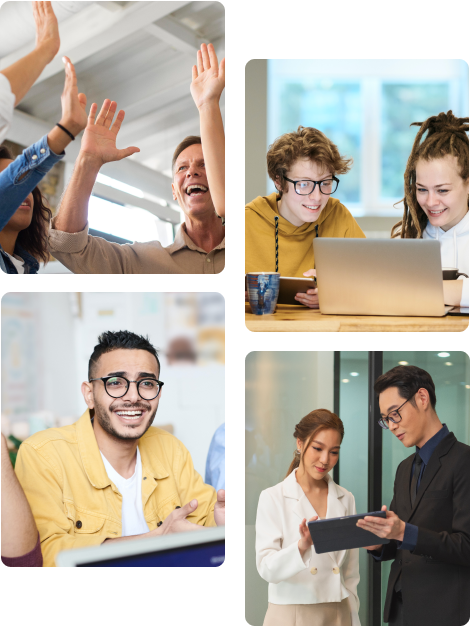
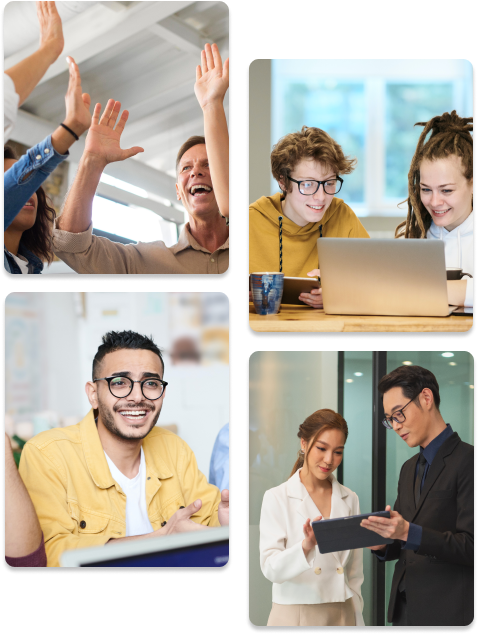
[Style] - Many background images changed into abstract white/black lines - Sections sizing and paddings changed

diff --git a/app/about/about-sections/SectionOne.tsx b/app/about/about-sections/SectionOne.tsx
@@ -3,22 +3,27 @@ import Image from 'next/image'
 
 export default function SectionOne() {
   return (
-    <div className="flex flex-col p-default-padding md:p-medium-padding items-center gap-[100px] bg-white">
-      <h1 className='text-4xl font-extrabold'>About Us</h1>
+    <div className="flex flex-col p-default-padding md:p-medium-padding items-center gap-[100px] bg-white bg-white-abstract-pattern-5 bg-cover bg-center bg-no-repeat">
+      <div className='flex w-full items-center'>
+        <hr className='border border-gray-3 w-full'/>
+        <h1 className='text-2xl font-semibold w-[900px] text-center'>About Us</h1>
+        <hr className='border border-gray-3 w-full'/>
+        <hr />
+      </div>
       <div className='flex items-center justify-center gap-[100px]'>
         <Image src={promoImage} alt="People Enjoying their work"/>
         <div className="text-center flex flex-col gap-20">
           <div>
-            <h2 className="text-4xl font-extrabold">Our Mission</h2>
-            <p className="w-[500px] text-center">&quot;To empower startups and medium-sized enterprises with innovative strategies and advanced technological solutions that drive their growth and streamline their operations.&quot;</p>
+            <h2 className="text-4xl font-bold">Our Mission</h2>
+            <p className="w-[600px] text-md text-center">&quot;To empower startups and medium-sized enterprises with innovative strategies and advanced technological solutions that drive their growth and streamline their operations.&quot;</p>
           </div>
           <div>
-            <h2 className="text-4xl font-extrabold">Our Vision</h2>
-            <p className="w-[500px] text-center">&quot;To empower startups and medium-sized enterprises with innovative strategies and advanced technological solutions that drive their growth and streamline their operations.&quot;</p>
+            <h2 className="text-4xl font-bold">Our Vision</h2>
+            <p className="w-[600px] text-md text-center">&quot;To be the go-to consulting partner for startups and medium enterprises, recognized for our commitment to delivering transformative results and fostering business excellence.&quot;</p>
           </div>
         </div>
       </div>
-      <div className="flex items-center gap-20">
+      <div className="flex items-center gap-20 border-t-2 border-gray-3 px-[100px]">
         <p className="text-3xl font-bold w-[450px]">We are here to help our clients reach their goals.</p>
         <div className="w-[1px] h-[300px] bg-gray-3"></div>
         <div className="w-[500px] flex flex-col gap-5">

diff --git a/app/about/about-sections/SectionThree.tsx b/app/about/about-sections/SectionThree.tsx
@@ -1,26 +1,32 @@
-
+import maykel from '@/app/assets/images/Maykel.jpg'
+import andrew from '@/app/assets/images/Andrew.jpg'
+import georgio from '@/app/assets/images/Giorgio.jpg'
+import Image, { StaticImageData } from 'next/image'
 
 const members = [
   {
     name: "Maykel Soeharto",
-    position: "Founder"
+    position: "Founder",
+    profilePic: maykel
   },
   {
-    name: "Maykel Soeharto",
-    position: "Founder"
+    name: "Andrew",
+    position: "Founder",
+    profilePic: andrew
   },
   {
-    name: "Maykel Soeharto",
-    position: "Founder"
+    name: "Georgio",
+    position: "Founder",
+    profilePic: georgio
   }
 ]
 
-function MemberCard({name, position} : {name: string, position: string}) {
+function MemberCard({name, position, profilePic} : {name: string, position: string, profilePic: StaticImageData}) {
   return (
-    <div className="flex flex-col gap-2">
-      <div className="w-[300px] h-[400px] bg-gray-3 rounded-2xl"></div>
+    <div className="flex flex-col gap-10">
+      <Image src={profilePic} alt={name} className='w-[300px] h-[400px] rounded-2xl object-cover shadow-xl shadow-gray-2'/>
       <div>
-        <h3 className="font-semibold">{name}</h3>
+        <h3 className="font-semibold text-lg">{name}</h3>
         <p className="font-extralight">{position}</p>
       </div>
     </div>
@@ -34,10 +40,10 @@ export default function SectionThree() {
         <h2 className="font-bold text-3xl">Meet our team</h2>
         <p className="max-w-[600px]">We are the driving force behind innovative solutions and strategic growth. Our consultants are here to empower your business and deliver exceptional results.</p>
       </div>
-      <div className="flex gap-10">
+      <div className="flex gap-20">
         {
           members.map((item, index) => (
-            <MemberCard key={index} name={item.name} position={item.position}/>
+            <MemberCard key={index} name={item.name} position={item.position} profilePic={item.profilePic}/>
           ))
         }
       </div>

diff --git a/app/services/service-sections/SectionThree.tsx b/app/services/service-sections/SectionThree.tsx
@@ -17,7 +17,7 @@ const keypoints = [
 
 function Keypoint({heading, text} : {heading: string, text: string}) {
   return (
-    <div className="px-[20px] py-[40px] w-[420px] flex flex-col items-center justify-start bg-white text-center gap-4 shadow-lg">
+    <div className="px-[20px] py-[40px] w-[420px] flex flex-col items-center justify-start bg-white text-center gap-4 shadow-lg rounded-2xl">
       <h2 className="text-xl font-bold border-b border-beige">{heading}</h2>
       <p>{text}</p>
     </div>
@@ -27,10 +27,10 @@ function Keypoint({heading, text} : {heading: string, text: string}) {
 export default function SectionThree() {
   return (
     <div className="services-img-bg bg-cover bg-center bg-no-repeat lg:p-default-padding md:p-medium-padding flex flex-col items-center justify-center gap-20 lg:py-[150px] md:py-[150px]">
-      <div className="flex items-center justify-center gap-10 backdrop-blur-xl p-4">
-        <h2 className="w-[470px] text-3xl font-bold">Growth Strategy for Medium Enterprises</h2>
+      <div className="flex items-center justify-center gap-10 bg-gray-1/60 backdrop-blur-md py-6 px-10 shadow-lg rounded-2xl">
+        <h2 className="w-[470px] text-3xl font-bold text-white">Growth Strategy for Medium Enterprises</h2>
         <div className="w-[2px] h-[100px] bg-gray-2"></div>
-        <p className="w-[600px]">Our Growth Strategy services are designed to help established medium-sized enterprises identify new opportunities and expand their market presence. We provide the insights and tools needed to navigate market complexities and accelerate growth.</p>
+        <p className="w-[600px] text-white">Our Growth Strategy services are designed to help established medium-sized enterprises identify new opportunities and expand their market presence. We provide the insights and tools needed to navigate market complexities and accelerate growth.</p>
       </div>
       <div className="flex gap-10">
         {

diff --git a/app/about/about-sections/SectionTwo.tsx b/app/about/about-sections/SectionTwo.tsx
@@ -4,11 +4,11 @@ import bannerMockup from '@/app/assets/images/billboard-mockup.png'
 
 export default function SectionTwo() {
   return (
-    <div className=" bg-gradient-to-t from-gray-2/40 to-white flex items-center justify-center lg:p-default-padding md:p-medium-padding gap-20 lg:pb-0 md:pb-0">
+    <div className="flex items-center justify-center lg:p-default-padding md:p-medium-padding gap-20 lg:pb-0 md:pb-0 bg-white-abstract-pattern-3 bg-cover bg-center bg-no-repeat lg:pt-[100px] md:pt-[100px]">
       <Image src={bannerMockup} alt="Origin Banner Mockup" className="lg:w-[600px] md:w-[500px]"/>
       <div className="w-[500px] flex flex-col gap-7 md:text-sm lg:text-md">
         <h2 className="font-bold lg:text-3xl md:text-lg">Experts from each <br></br> field worldwide.</h2>
-        <p>We share common trends and strategies for improving your rental income and making sure you stay in high demand of service. </p>
+        <p className="text-md w-[400px]">We share common trends and strategies for improving your rental income and making sure you stay in high demand of service. </p>
       </div>
     </div>
   )

diff --git a/app/services/service-sections/SectionFour.tsx b/app/services/service-sections/SectionFour.tsx
@@ -18,7 +18,7 @@ const keypoints = [
 
 function Keypoints({heading, text, icon} : {heading: string, text: string, icon: StaticImageData}) {
   return (
-    <div className='flex flex-col gap-4 items-center'>
+    <div className='flex flex-col gap-4 items-center shadow-xl rounded-lg px-2 py-4'>
       <Image src={icon} alt={heading} className='w-[130px]'/>
       <div className='text-center flex flex-col gap-2'>
         <h3 className='text-xl font-semibold'>{heading}</h3>
@@ -44,7 +44,7 @@ export default function SectionFour() {
           }
         </div>
       </div>
-      <Image src={operationalEfficiency} alt="asian businessman presenting analysis cost graph corporate colleagues meeting office" className='md:w-[300px] md:h-[400px] lg:w-[425px] lg:h-[621px] object-cover rounded-3xl shadow-xl'/>
+      <Image src={operationalEfficiency} alt="asian businessman presenting analysis cost graph corporate colleagues meeting office" className='md:w-[300px] md:h-[400px] lg:w-[525px] lg:h-[621px] object-cover rounded-3xl shadow-xl'/>
       
     </div>
   )

diff --git a/app/services/service-sections/SectionFive.tsx b/app/services/service-sections/SectionFive.tsx
@@ -3,7 +3,7 @@ import Image from 'next/image'
 
 export default function SectionFive() {
   return (
-    <div className="digital-transformation-bg flex flex-col items-center justify-center lg:p-default-padding md:p-medium-padding lg:py-[150px] md:py-[150px] text-white gap-20">
+    <div className="digital-transformation-bg flex flex-col items-center justify-center lg:p-default-padding md:p-medium-padding lg:py-[120px] md:py-[120px] text-white gap-20">
       <div className="text-center flex flex-col items-center justify-center gap-4">
         <h2 className="text-3xl font-bold">Digital <span className='text-beige'>Transformation</span></h2>
         <p className="w-[600px]">In the digital age, staying competitive requires embracing technology. Our Digital Transformation services integrate cutting-edge technologies like AI and IoT to revolutionize your operations and create new value propositions.

diff --git a/tailwind.config.ts b/tailwind.config.ts
@@ -13,6 +13,11 @@ const config: Config = {
         "gradient-conic": "conic-gradient(from 180deg at 50% 50%, var(--tw-gradient-stops))",
         "black-pattern-1": "url('./assets/images/black-pattern-1.webp')",
         "black-pattern-2": "url('./assets/images/black-pattern-2.webp')",
+        "white-abstract-pattern-1": "url('./assets/images/flat-illustration-wavy-white-background.jpg')",
+        "white-abstract-pattern-2": "url('./assets/images/white-abstract-background-2.jpg')",
+        "white-abstract-pattern-3": "url('./assets/images/white-abstract-background-3.jpg')",
+        "white-abstract-pattern-5": "url('./assets/images/white-abstract-background-5.webp')",
+        "services-main-bg": "url('./assets/images/businessman-near-building-looking-away.jpg')",
       },
       padding:  {
         "default-padding": "60px 200px",

diff --git a/app/sections/SectionFive.tsx b/app/sections/SectionFive.tsx
@@ -2,9 +2,9 @@ import { ContactForm } from "../global-components/ContactForm"
 
 export default function SectionFive() {
   return (
-    <div className='lg:p-default-padding md:p-medium-padding flex flex-col items-center gap-10 bg-black-pattern-1 bg-no-repeat bg-cover text-white bg-center md:py-[100px] lg:py-[100px]'>
+    <div className='lg:p-default-padding md:p-medium-padding flex flex-col items-center gap-10 bg-white-abstract-pattern-2 bg-no-repeat bg-cover text-black bg-center md:py-[100px] lg:py-[100px]'>
       <div className='text-center'>
-        <h2 className='text-2xl font-extrabold'>Give Us A Call</h2>
+        <h2 className='text-3xl font-extrabold'>Give Us A Call</h2>
         <p>We can&apos;t wait to see what holds for the future of our partership.</p>
       </div>
       <ContactForm />

diff --git a/app/services/service-sections/SectionTwo.tsx b/app/services/service-sections/SectionTwo.tsx
@@ -37,7 +37,7 @@ function Keypoints({heading, text, icon} : {heading: string, text: string, icon:
 export default function SectionTwo() {
   return (
     <div className="flex items-center justify-center gap-[100px] lg:p-default-padding md:p-medium-padding bg-white lg:py-[140px] md:py-[140px]">
-      <Image src={supportImage} alt="Business Executives using laptop" className="md:w-[300px] md:h-[400px] lg:w-[425px] lg:h-[621px] rounded-3xl object-cover shadow-xl"/>
+      <Image src={supportImage} alt="Business Executives using laptop" className="md:w-[400px] md:h-[521px] lg:w-[525px] lg:h-[621px] rounded-3xl object-cover shadow-xl"/>
       <div className="flex flex-col gap-[40px]">
         <div>
           <h2 className="text-3xl font-bold mb-4 border-b-4 border-beige w-fit">Startup Advisory</h2>

diff --git a/app/services/service-sections/SectionOne.tsx b/app/services/service-sections/SectionOne.tsx
@@ -3,7 +3,7 @@ import Image from 'next/image'
 
 export default function SectionOne() {
   return (
-    <div className="bg-gradient-to-t from-gray-3 to-white to-20%  bg-white lg:p-default-padding md:p-medium-padding flex items-top justify-center lg:pb-0 md:pb-0 lg:pt-[150px] gap-[200px] border-b">
+    <div className="bg-white lg:p-default-padding md:p-medium-padding flex items-top justify-center lg:pb-0 md:pb-0 lg:pt-[150px] gap-[200px] border-b bg-white-abstract-pattern-1 bg-cover bg-bottom bg-no-repeat">
       <div className="flex flex-col gap-6 ">
         <div>
           <h2 className="lg:text-md md:text-sm text-gray-2">ORIGIN CONSULTING GROUP</h2>

diff --git a/app/contact/page.tsx b/app/contact/page.tsx
@@ -4,7 +4,7 @@ import bigLogo from '@/app/assets//icons/origin-logo-big.svg'
 
 export default function Contact() {
   return (
-    <div className="p-default-padding lg:p-default-padding md:p-medium-padding flex flex-col gap-14">
+    <div className="p-default-padding lg:p-default-padding md:p-medium-padding flex flex-col gap-14 bg-white-abstract-pattern-2 lg:py-[120px] md:py-[120px]">
       <div className="flex items-center justify-center gap-20">
         <Image src={bigLogo} alt="Big Logo" className="w-[250px]"/>
         <div className='h-[200px] w-[1px] bg-black/20'></div>

diff --git a/app/styles.css b/app/styles.css
@@ -18,7 +18,7 @@
 }
 
 .services-img-bg {
-  background-image: linear-gradient(0deg, rgba(255, 255, 255, 0.8), rgba(255, 255, 255, 0.8)), url('assets/images/cropped-business-people-discussing-charts-diagrams-office.jpg');
+  background-image: linear-gradient(0deg, rgba(255, 255, 255, 0.5), rgba(255, 255, 255, 0.5)), url('assets/images/cropped-business-people-discussing-charts-diagrams-office.jpg');
 }
 
 .digital-transformation-bg {
